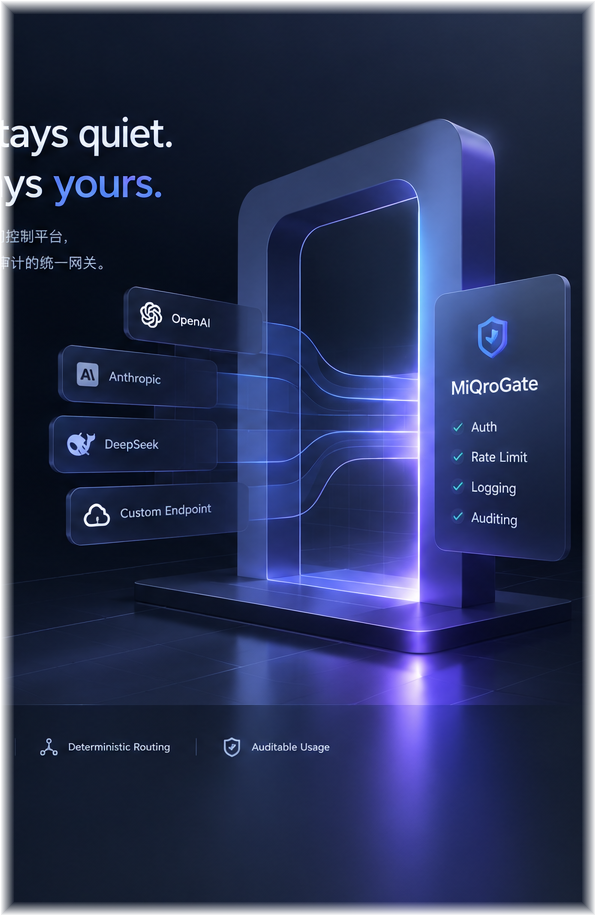
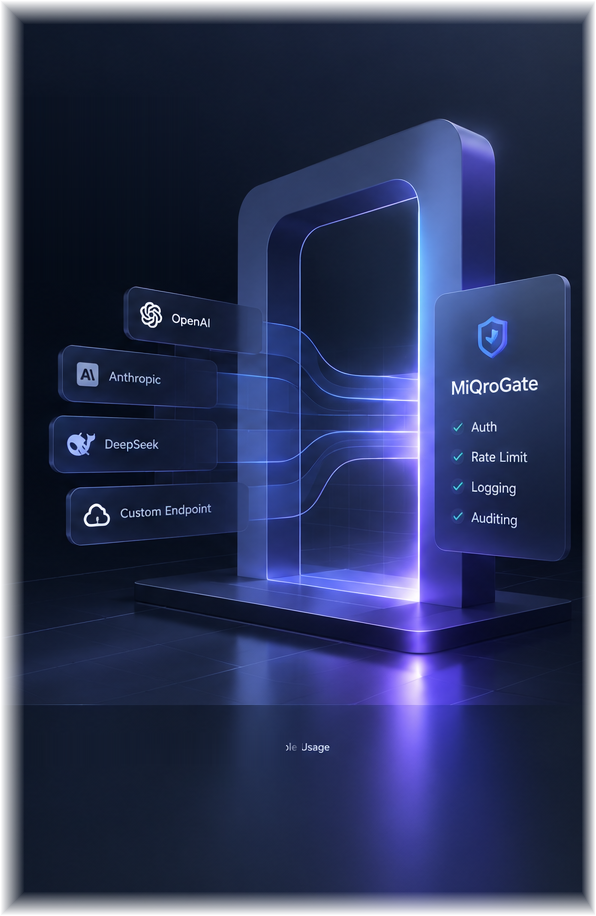
fix(web): 整块素材两处硬伤——抹除烘焙英文残字 + hero 底色取色对齐（#490）
owner 实指两个问题，逐一修复：

1) 左上角残字：上一版裁切只查了能力卡段边界，漏查文案段——参考图的英文
   大标题（x 至 512）、描述（至 443）与页脚信任条（x240-639, y838-868）的
   尾部都烙进了素材左上与底部。用逐列垂直插值（band 上/下行干净像素线性
   插值 + 16px 右缘混合）抹除；页脚带经结构检测确认与门柱（x≥640）不重叠，
   安全清除。OCR 复查：仅剩卡片/状态卡的合法内容，残字零残留。
2) 色差：hero 背景此前比参考图整体亮 6-12 阶，整块素材呈深色矩形。按参考
   图取色器采样重建背景（#0a111f → #040a14 → #08101d + 82%/58% 处极淡
   紫蓝微光）；素材左缘羽化加宽至 24px。截图实测接缝处 Δ≤1（y350），
   发光区经羽化软过渡。

vitest 5/5、Playwright 52/52、typecheck/build 绿；对比图 v5 已发 owner。

diff --git a/frontend/src/views/next/NextLoginView.vue b/frontend/src/views/next/NextLoginView.vue
@@ -732,10 +732,12 @@ onMounted(async () => {
   padding: 34px clamp(48px, 6vw, 96px) 30px;
   display: flex;
   flex-direction: column;
+  /* Sampled from the reference artwork so the composite block's edges are
+     invisible: #0a111f top -> #040a14 mid -> #08101d bottom, plus the faint
+     right-side aura the reference carries on the copy side. */
   background:
-    radial-gradient(circle at 63% 61%, rgba(96, 105, 255, 0.26), transparent 19%),
-    radial-gradient(circle at 43% 28%, rgba(57, 108, 255, 0.16), transparent 26%),
-    linear-gradient(156deg, #071224 0%, #0a1428 42%, #07101f 100%);
+    radial-gradient(circle at 82% 58%, rgba(84, 94, 255, 0.09), transparent 46%),
+    linear-gradient(180deg, #0a111f 0%, #040a14 44%, #08101d 88%, #08101d 100%);
   color: #f5f7ff;
   isolation: isolate;
 }
